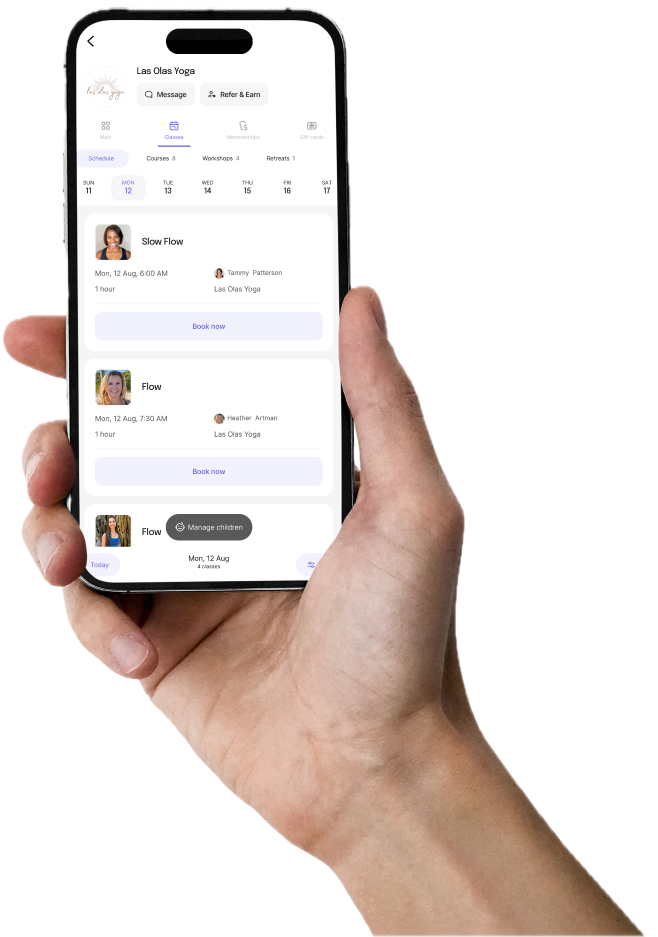
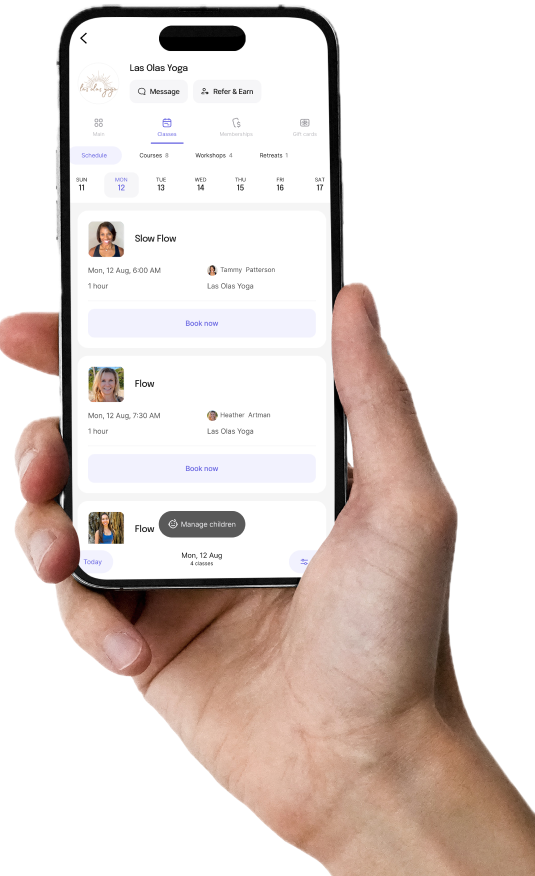
shrunk footer and changed images

diff --git a/components/About/index.tsx b/components/About/index.tsx
@@ -9,7 +9,7 @@ const About = () => {
       {/* <!-- ===== About Start ===== --> */}
       <section className="overflow-hidden pb-20 lg:pb-25 xl:pb-30">
         <div className="mx-auto max-w-c-1235 px-4 md:px-8 xl:px-0">
-          <div className="flex items-center gap-8 lg:gap-32.5">
+          <div className="flex items-center flex-col sm:flex-row gap-8 lg:gap-32.5">
             <motion.div
               variants={{
                 hidden: {
@@ -26,7 +26,7 @@ const About = () => {
               whileInView="visible"
               transition={{ duration: 0.5, delay: 0.1 }}
               viewport={{ once: true }}
-              className="animate_left relative mx-auto hidden aspect-[200/150] md:block md:w-1/2"
+              className="animate_left relative mx-auto w-full aspect-[200/150] md:block sm:w-1/2"
             >
               <Image
                 src="/images/about/about-image-01.webp"
@@ -51,7 +51,7 @@ const About = () => {
               whileInView="visible"
               transition={{ duration: 0.5, delay: 0.1 }}
               viewport={{ once: true }}
-              className="animate_right md:w-1/2"
+              className="animate_right sm:w-1/2"
             >
               <span className="font-medium uppercase text-black dark:text-white">
                 <span className="mb-4 mr-4 inline-flex rounded-full bg-primary px-4.5 py-1 text-metatitle uppercase text-white ">
@@ -76,7 +76,7 @@ const About = () => {
       {/* <!-- ===== About Two Start ===== --> */}
       <section>
         <div className="mx-auto max-w-c-1235 overflow-hidden px-4 md:px-8 2xl:px-0">
-          <div className="flex items-center gap-8 lg:gap-32.5">
+          <div className="flex items-center flex-col sm:flex-row gap-8 lg:gap-32.5">
             <motion.div
               variants={{
                 hidden: {
@@ -93,7 +93,7 @@ const About = () => {
               whileInView="visible"
               transition={{ duration: 1, delay: 0.1 }}
               viewport={{ once: true }}
-              className="animate_left md:w-1/2"
+              className="animate_left sm:w-1/2"
             >
               <h2 className="relative mb-6 text-2xl font-bold text-black dark:text-white xl:text-3xl">
                 <span className="relative inline-block before:absolute before:bottom-2.5 before:left-0 before:-z-1 before:h-3 before:w-full before:bg-titlebg2 dark:before:bg-titlebgdark">
@@ -138,7 +138,7 @@ const About = () => {
               whileInView="visible"
               transition={{ duration: 1, delay: 0.1 }}
               viewport={{ once: true }}
-              className="animate_right relative mx-auto hidden aspect-[200/150] md:block md:w-1/2"
+              className="animate_right relative mx-auto aspect-[200/150] w-full md:block sm:w-1/2"
             >
               <Image
                 src="/images/about/about-image-02.webp"

diff --git a/components/Footer/index.tsx b/components/Footer/index.tsx
@@ -8,7 +8,7 @@ const Footer = () => {
       <footer className="border-t border-stroke bg-lightestbrown dark:border-strokedark dark:bg-blacksection">
         <div className="mx-auto max-w-c-1390 px-4 md:px-8 2xl:px-0">
           {/* <!-- Footer Top --> */}
-          <div className="py-20">
+          <div className="py-10">
             <div className="flex flex-wrap gap-8 lg:justify-between lg:gap-0">
               <motion.div
                 variants={{
@@ -207,7 +207,7 @@ const Footer = () => {
           {/* <!-- Footer Top --> */}
 
           {/* <!-- Footer Bottom --> */}
-          <div className="flex justify-center gap-5 border-t border-stroke py-7 dark:border-strokedark lg:gap-0">
+          <div className="flex justify-center gap-5 border-t border-stroke py-4 dark:border-strokedark lg:gap-0">
             <motion.div
               variants={{
                 hidden: {

diff --git a/components/FunFact/index.tsx b/components/FunFact/index.tsx
@@ -34,7 +34,7 @@ const FunFact = () => {
                 Book classes on the go!
               </p>
               <div className="mt-10 flex space-x-4">
-                <button className="border-2 border-black rounded-full overflow-hidden">
+                <button className="border-2 border-black rounded-full overflow-hidden hover:opacity-50 transition-all duration-200">
                   <Image
                     width={1090 / 7}
                     height={327 / 7}
@@ -54,8 +54,8 @@ const FunFact = () => {
             </div>
             <div className="hidden md:block">
               <Image
-                width={658 / 2.5}
-                height={937 / 2.5}
+                width={535 / 2.5}
+                height={876 / 2.5}
                 src="/images/app/app_hand.png"
                 alt="Hand holding phone displaying mobile app"
               />
